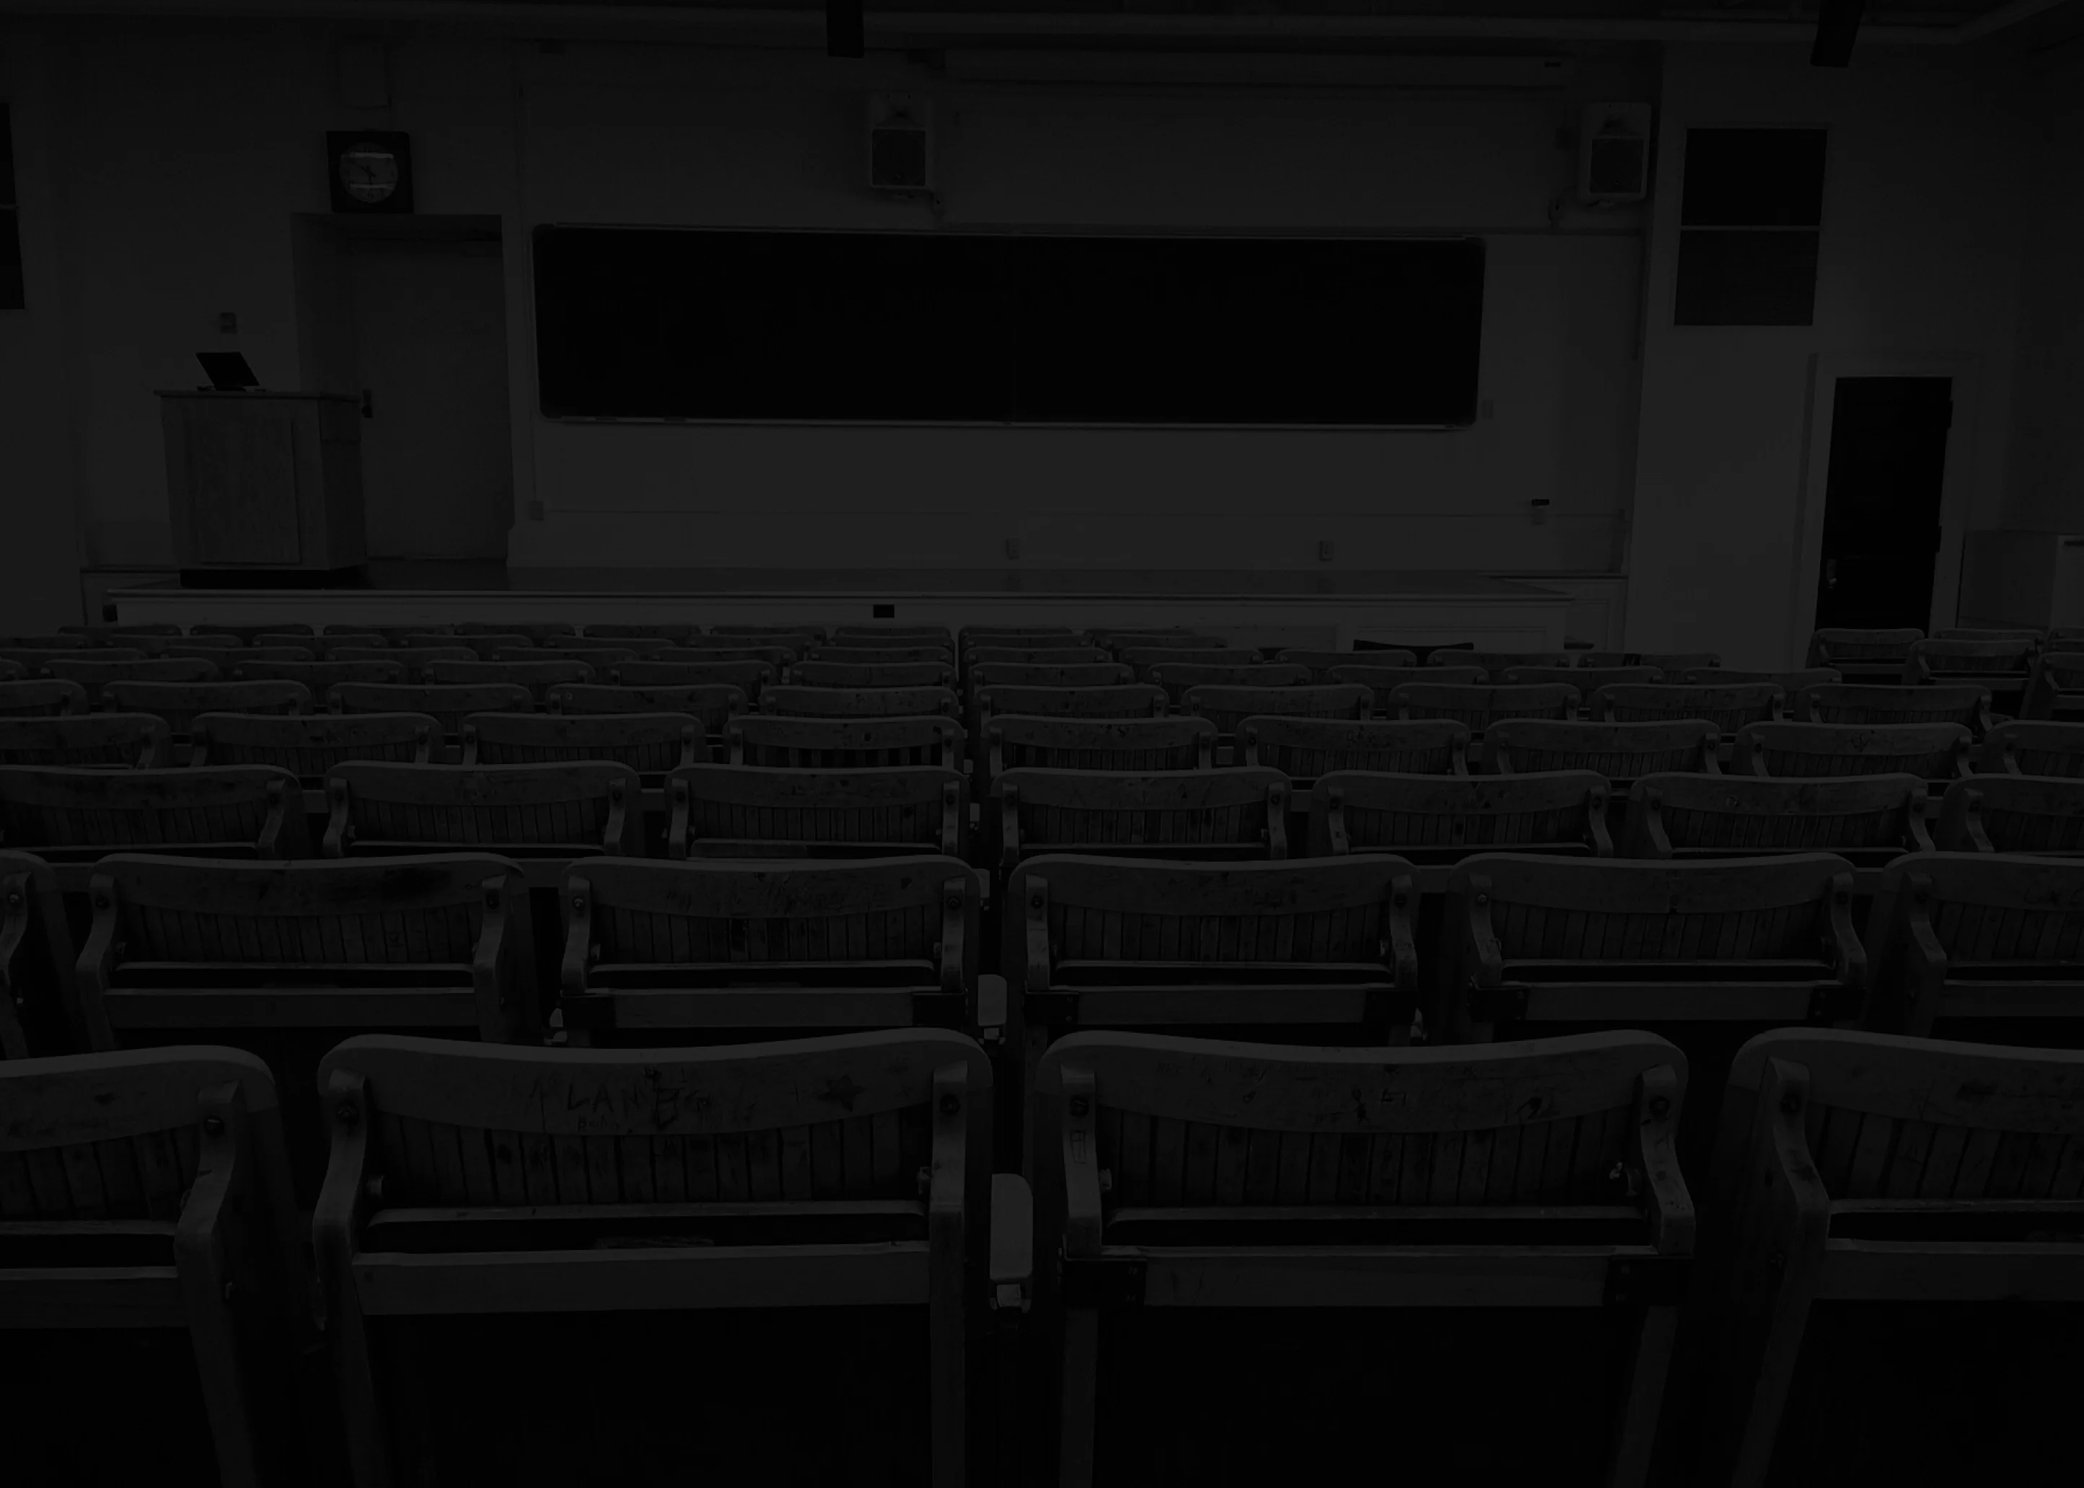
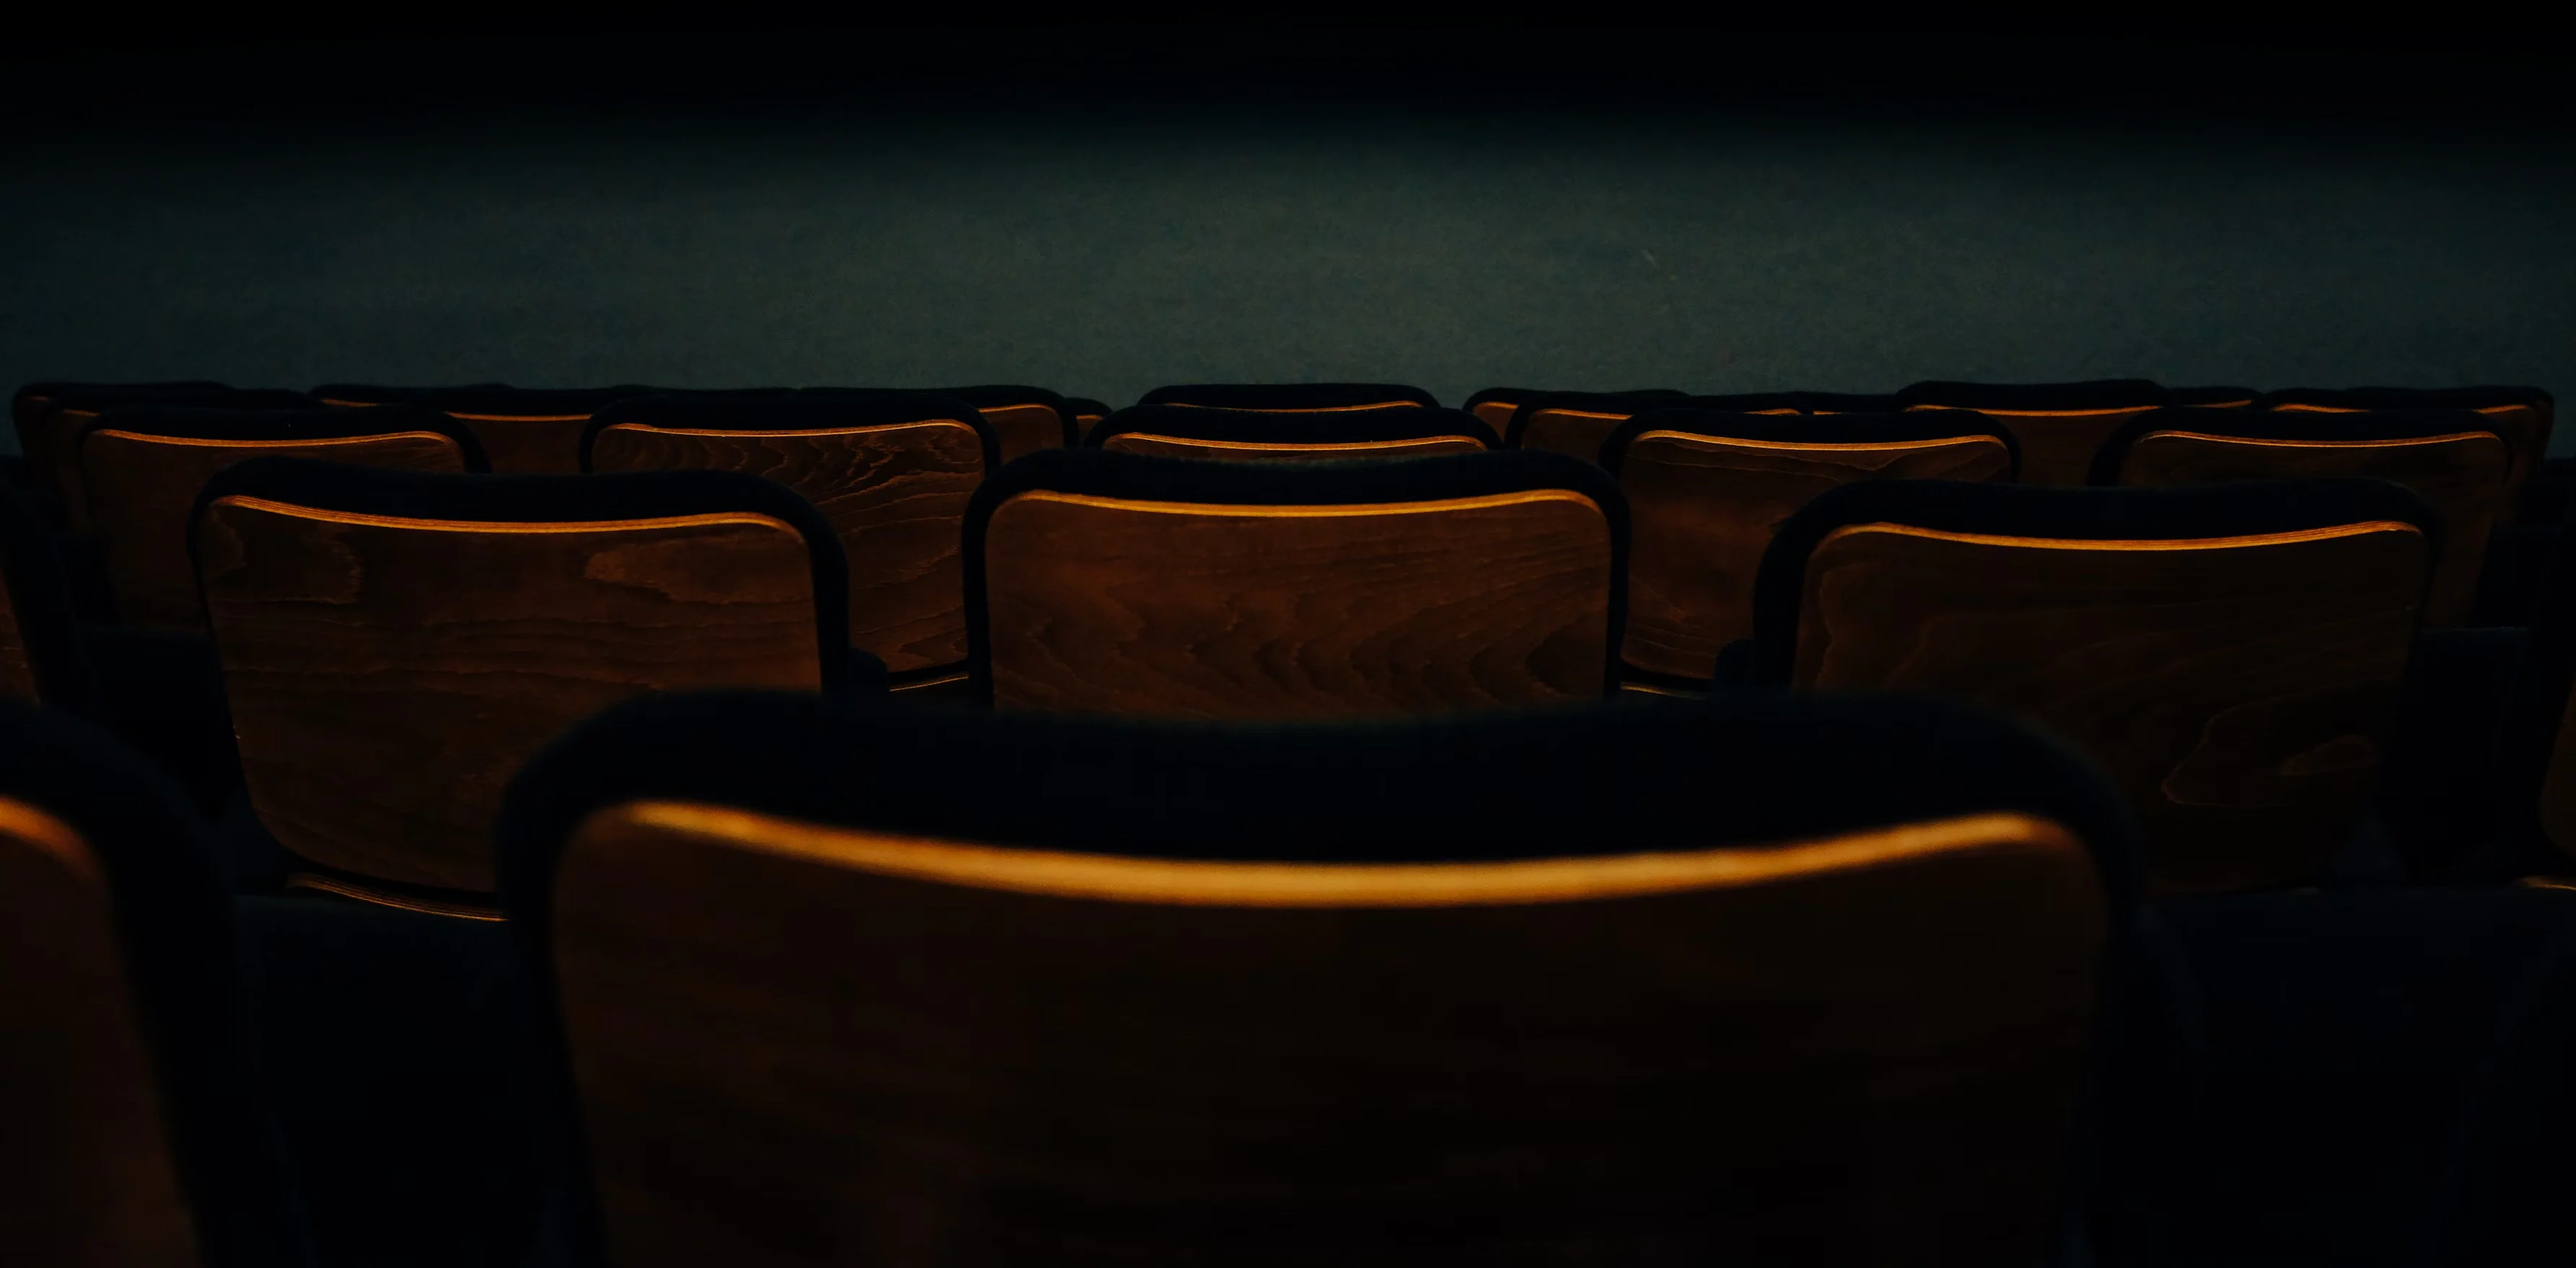
All dark. New background images.

diff --git a/index.html b/index.html
@@ -9,7 +9,6 @@
     <link rel="stylesheet" href="css/publications.css" />
     <link rel="stylesheet" href="css/teaching.css" />
     <link rel="stylesheet" href="css/devel.css" />
-    <link rel="stylesheet" href="css/glitch.css" />
   </head>
   <body>
     <div class="dev-banner">
@@ -26,16 +25,18 @@
       </span>
     </div>
     <main>
-      <section id="aboutme" class="parallax">
+      <section
+        id="aboutme"
+        class="parallax"
+        style="background-image: url(img/home.webp)"
+      >
         <div id="aboutme-wrapper">
           <p id="domain">alexmoch<span class="blue">.</span>com</p>
           <div id="hi-wrapper">
             <p id="hi">
               Hi<span class="blue">,</span> I<span class="blue">'</span>m
             </p>
-            <p id="alex">
-              <span class="wrapper"><span class="glitch">Alex</span></span>
-            </p>
+            <p id="alex">Alex</p>
             <p id="whoami">
               Cryptographer <span class="blue">&</span> IT<span class="blue"
                 >-</span
@@ -416,6 +417,18 @@
           Suspendisse vitae est nisi. Mauris vestibulum justo id molestie
           fermentum.
         </p>
+      </section>
+
+      <section
+        id="credits"
+        class="parallax"
+        style="background-image: url(img/credits.webp)"
+      >
+        <div class="credits-wrapper" style="height: 100vh">
+          <div class="section-wrapper">
+            <p class="section-header">Credits<span class="blue">.</span></p>
+          </div>
+        </div>
       </section>
     </main>
   </body>

diff --git a/css/style.css b/css/style.css
@@ -50,6 +50,7 @@ html {
   font-family: "Roboto Flex", "Courier New";
   font-weight: 500;
   font-size: 14pt;
+  text-shadow: 0 0 8px black;
   -webkit-font-smoothing: antialiased !important;
   -moz-osx-font-smoothing: grayscale !important;
 }
@@ -68,8 +69,11 @@ html {
 }
 
 .content {
+  background: black;
+  color: white;
   overflow: hidden;
-  padding: 100px;
+  box-shadow: 0 0 200px 100px black;
+  filter: drop-shadow(0 0 0 black);
 }
 
 .content > p {
@@ -82,13 +86,17 @@ html {
 }
 
 .section-wrapper {
-  padding: 10%;
+  padding-top: 200px;
+  padding-bottom: 200px;
+  padding-left: 10vw;
+  padding-right: 10vw;
   width: 80%;
 }
 
 .section-header {
   font-size: 30pt;
   font-weight: 550;
+  margin-top: 0;
   margin-bottom: 60px;
   color: white;
 }

diff --git a/css/aboutme.css b/css/aboutme.css
@@ -1,16 +1,6 @@
 #aboutme {
   height: 100vh;
-  background: black;
   padding: 0;
-}
-
-@media screen and (min-width: 850px) {
-  #aboutme {
-    background-image: url(../img/home.webp);
-    background-size: 1000px;
-    background-repeat: no-repeat;
-    background-position: -150px 25%;
-  }
 }
 
 #aboutme-wrapper {
@@ -39,6 +29,18 @@
   margin-left: auto;
 }
 
+#alex {
+  color: white;
+  font-size: 100pt;
+  text-transform: uppercase;
+  font-weight: 700;
+  font-variation-settings: "wdth" 75;
+  letter-spacing: 2px;
+  text-align: right;
+  line-height: 90pt;
+  margin: -30px;
+}
+
 #whoami {
   width: 350px;
 }
@@ -65,7 +67,7 @@
 
 .text {
   position: relative;
-  margin-bottom: 50px;
+  margin-bottom: 200px;
 }
 
 #aboutme-text {
